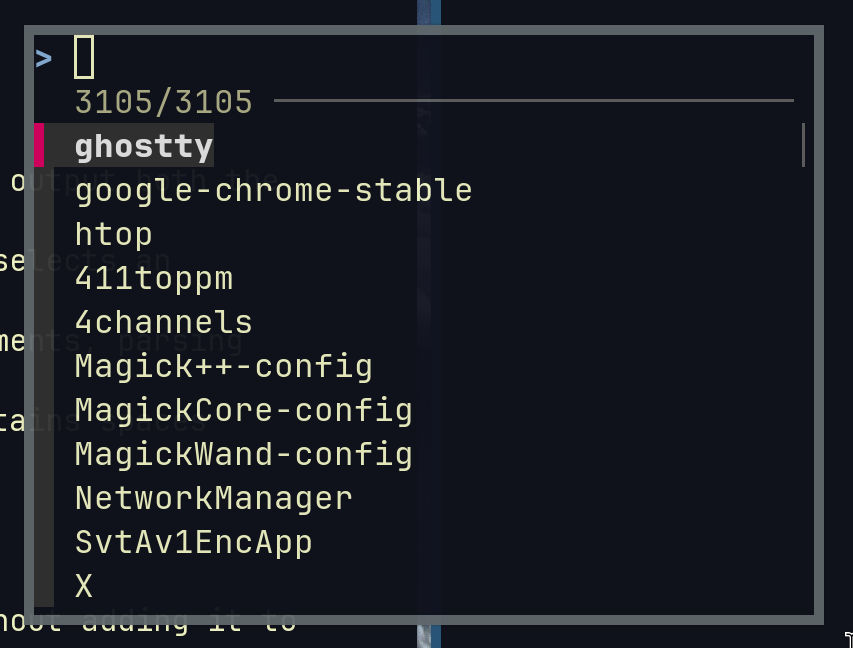
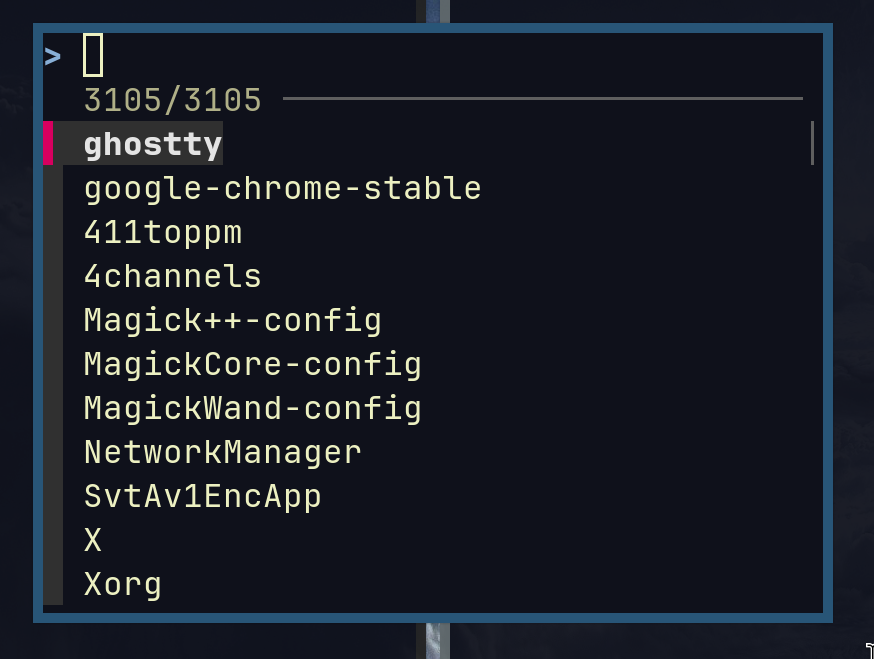
add: new build strategy with task

Changed region(s): [[0.0, 0.0, 0.9754, 1.0]]

diff --git a/readme.md b/readme.md
@@ -1,4 +1,4 @@
-# Fling - Fast Application Launcher
+# fling - a terminal based application launcher
 
 A lightweight TUI application launcher for Linux.
 Inspired by the power of `fzf` and the likeness of `dmenu` and `rofi`.
@@ -8,23 +8,36 @@ Inspired by the power of `fzf` and the likeness of `dmenu` and `rofi`.
 ## Features
 
 - Fast fuzzy search through system applications
+- Usage history to put your favorite apps on top
 - Scans all PATH directories for executables
 - Integrates seamlessly with i3wm
-- Lightweight and responsive TUI interface
-- No shell script dependencies - pure Go implementation
+- Pure Go implementation
 
 ## Installation
 
-```bash
-make build
-sudo make install
-```
-
-Or manually:
-```bash
-go build -o fling
-sudo cp fling /usr/local/bin/
-```
+- automatic from source:
+    ```bash
+    go install github.com/nanvenomous/fling@latest
+    ```
+- binary download
+    ```bash
+    curl -L https://github.com/nanvenomous/fling/releases/latest/download/fling-linux-amd64 > fling
+    chmod +x fling
+    sudo cp fling /usr/local/bin/
+    ```
+- from source with [task](https://github.com/go-task/task)
+    ```bash
+    git clone https://github.com/nanvenomous/fling.git
+    cd fling
+    task install
+    ```
+- manually from source:
+    ```bash
+    git clone https://github.com/nanvenomous/fling.git
+    cd fling
+    go build -o fling
+    sudo cp fling /usr/local/bin/
+    ```
 
 ## Usage
 
@@ -46,17 +59,3 @@ This will:
 - Bind `Mod+d` to launch fling in a floating alacritty terminal
 - Set the window to 800x600 pixels and center it on screen
 
-## How it works
-
-1. `fling` scans all directories in the PATH environment variable
-2. Finds all executable files and presents them via `fzf` for interactive selection
-3. Selected applications are launched with proper process detachment
-
-## Building from Source
-
-```bash
-git clone <repository>
-cd fling
-go mod tidy
-make build
-```
